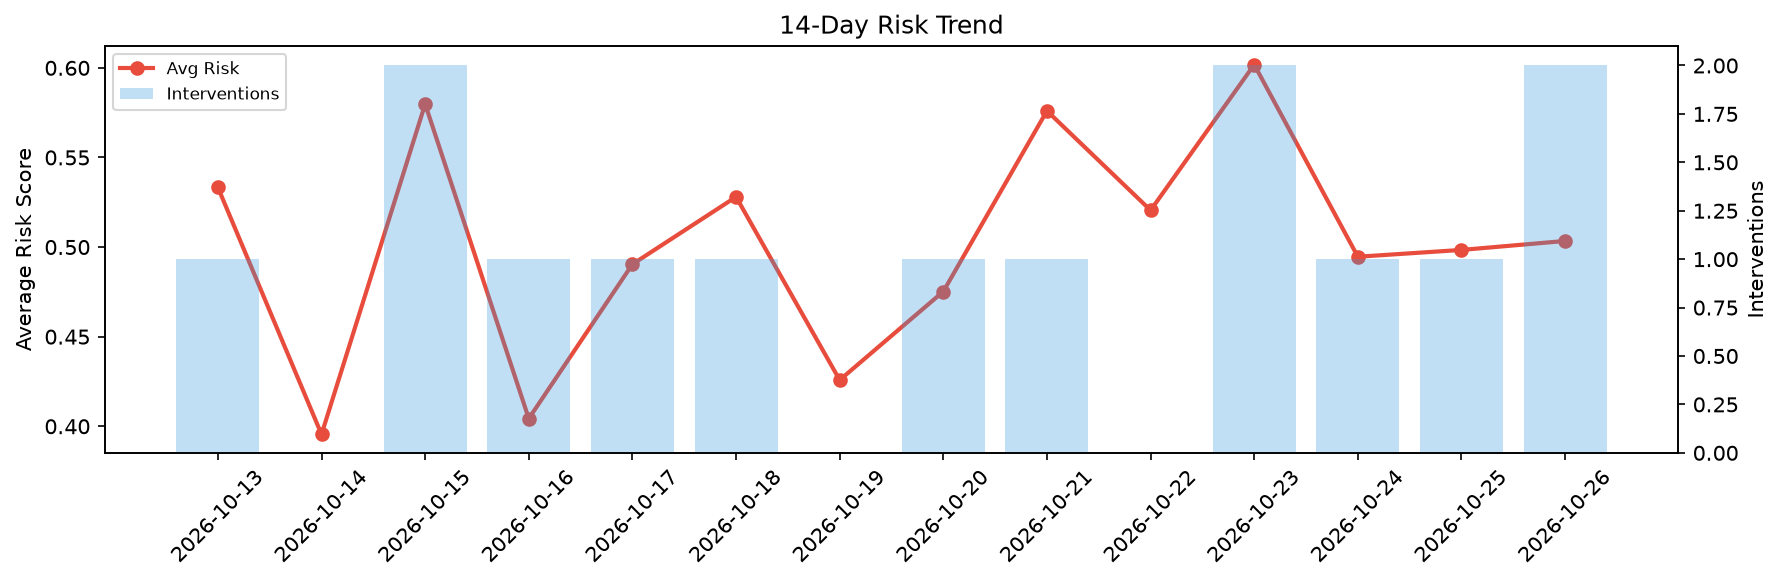
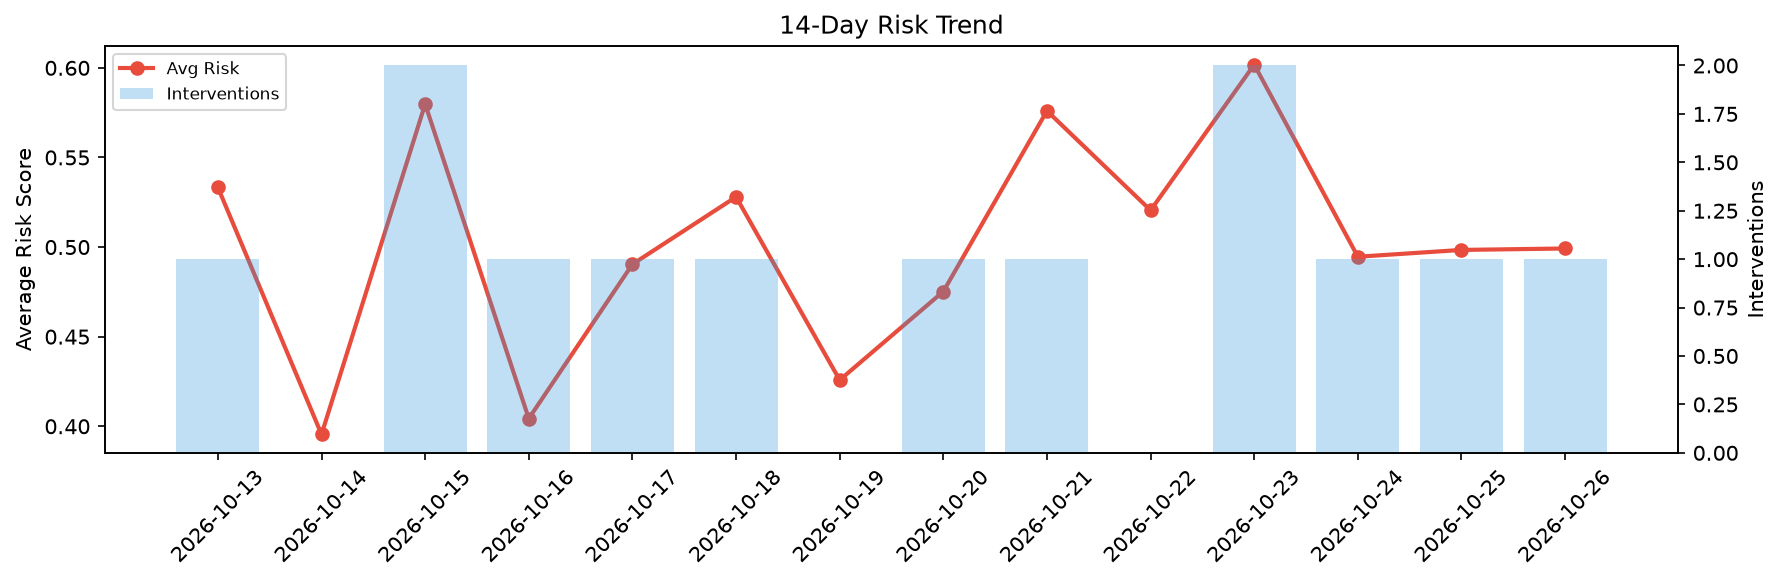
agent-improvement: daily cycle 2026-10-26T19:57

Changed region(s): [[0.8329, 0.0928, 0.9254, 0.4639]]

diff --git a/logs/2026-10-26.md b/logs/2026-10-26.md
@@ -1,6 +1,6 @@
 # Agent Improvement Report — 2026-10-26
 
-**Cycle ID:** `9578a544` | **Avg Risk:** 0.5034 | **Interventions:** 2/4
+**Cycle ID:** `c133361b` | **Avg Risk:** 0.4992 | **Interventions:** 1/4
 
 ![Dashboard](2026-10-26_dashboard.png)
 
@@ -10,18 +10,18 @@
 
 | Domain | Risk Score | Decision | Alerts |
 |--------|-----------|----------|--------|
-| code_review | 0.3816 | monitor | none |
-| incident_response | 0.6588 | intervene | severity |
-| data_pipeline | 0.6421 | intervene | schema_drift |
-| deployment | 0.3309 | monitor | latency_p99 |
+| code_review | 0.4418 | monitor | coverage |
+| incident_response | 0.472 | monitor | none |
+| data_pipeline | 0.6624 | intervene | volume_anomaly |
+| deployment | 0.4205 | monitor | none |
 
 ## Delta vs Yesterday
 
 | Domain | Today | Yesterday | Change |
 |--------|-------|-----------|--------|
-| code_review | 0.3816 | 0.1567 | 📈 143.5% |
-| incident_response | 0.6588 | 0.5243 | 📈 25.7% |
-| data_pipeline | 0.6421 | 0.7507 | 📉 -14.5% |
-| deployment | 0.3309 | 0.5617 | 📉 -41.1% |
+| code_review | 0.4418 | 0.1567 | 📈 181.9% |
+| incident_response | 0.472 | 0.5243 | 📉 -10.0% |
+| data_pipeline | 0.6624 | 0.7507 | 📉 -11.8% |
+| deployment | 0.4205 | 0.5617 | 📉 -25.1% |
 
 **Refinement:** `{'adjustment': 'maintain', 'trend': 'improving', 'window': 4}`
